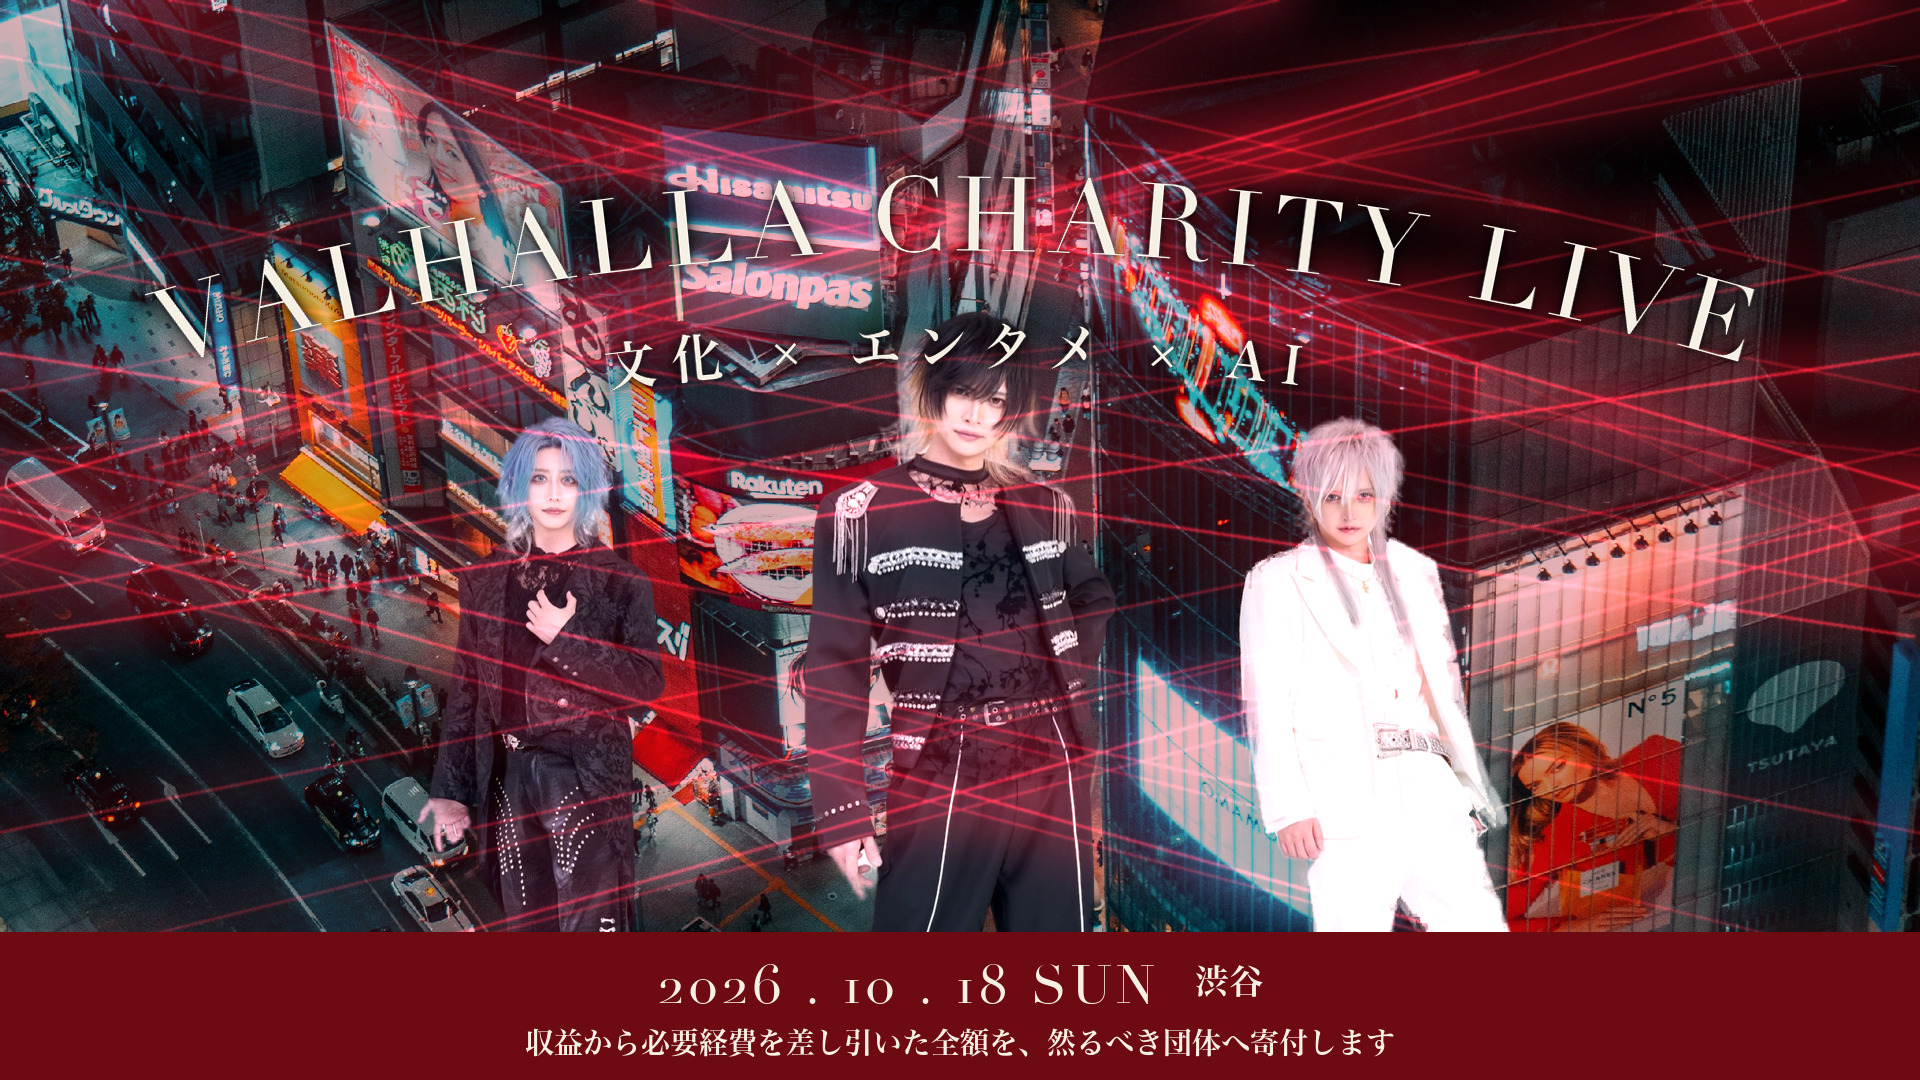
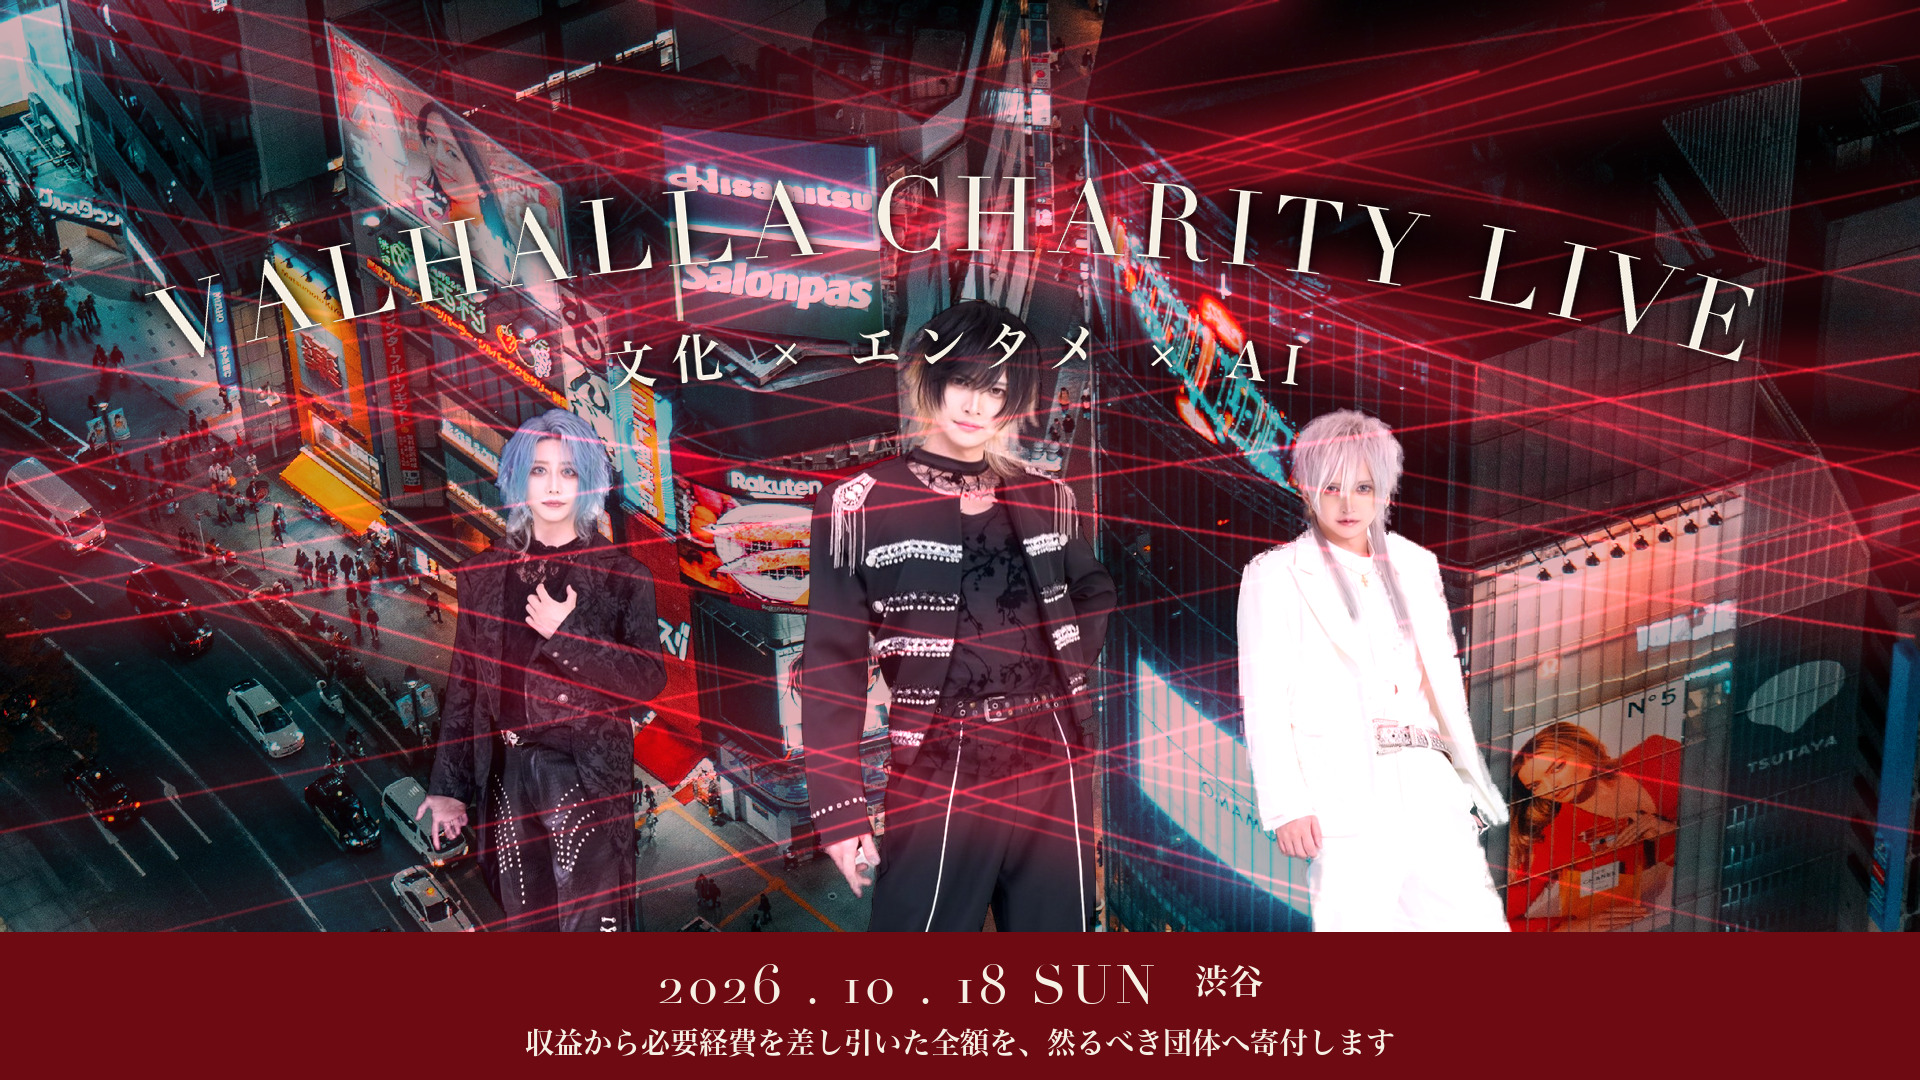
charity: segment each member separately for a sharper silhouette
U2Net resizes whatever it is given to 320x320 before deciding, so a
1600px group shot came back with a mask barely 320px wide -- which is
why the sleeves and hands melted into blobs. Each member is now located
first, then cut again from his own padded crop, tripling the effective
resolution per person.

The soft edges also carried the studio white with them; those pixels are
now unmixed against the measured backdrop colour and the faintest ones
dropped, so nothing glows white where it meets the city. White-suit
retention is up from 70% to 78%.

diff --git a/assets/charity/create_flyer_wide.py b/assets/charity/create_flyer_wide.py
@@ -97,62 +97,79 @@ def add_lasers(base: Image.Image) -> Image.Image:
 CUTOUT = HERE / "members_cutout.png"   # rembg で人物だけを抜いたもの
 
 
-def cutouts() -> list[Image.Image]:
-    """3人を1人ずつ、人物の形どおりに切り出して返す（左から順）。
+def refine_edges(rgba: Image.Image) -> Image.Image:
+    """縁に残る白ホリゾントの色を取り除き、輪郭を締める。
 
-    白ホリゾント撮影のため、明度や輪郭で抜こうとすると
-    白スーツ（明度251）が白背景（242）より明るく、必ず一緒に消える。
-    そこで rembg（U2Net）で意味的に人物を抜く。モデルは手元にあるので
-    オフラインで動く。結果は PNG に残して、次回からは読むだけにする。
+    半透明の縁は「人物の色」と「背景の白」が混ざった状態なので、
+    背景ぶんを引き算して人物本来の色に戻す。これをやらないと、
+    暗い渋谷の上に置いたとき縁が白く光って切り抜き感が出る。
     """
-    if not CUTOUT.exists():
-        from rembg import remove, new_session
-        # alpha matting を有効にすると、元画像の色を手がかりに境界を引き直す。
-        # これが無いとマスクが丸く鈍り、袖や手の形が潰れる。
-        remove(Image.open(MEMBERS).convert("RGB"),
-               session=new_session("u2net"),
-               alpha_matting=True,
-               alpha_matting_foreground_threshold=250,
-               alpha_matting_background_threshold=15,
-               alpha_matting_erode_size=12).save(CUTOUT)
+    arr = np.asarray(rgba).astype(np.float32)
+    a = arr[:, :, 3:4] / 255.0
+    bg = np.array([244.0, 244.0, 244.0], np.float32)   # 白ホリゾントの実測値
+    clean = np.clip((arr[:, :, :3] - (1 - a) * bg) / np.clip(a, 0.18, 1.0), 0, 255)
+    # ごく薄い縁は背景側とみなして落とす（輪郭の締め）
+    tight = np.clip((a - 0.14) / (1 - 0.14), 0, 1)
+    out = np.concatenate([clean, tight * 255], axis=2).astype(np.uint8)
+    return Image.fromarray(out).convert("RGBA")
 
-    rgba = Image.open(CUTOUT).convert("RGBA")
-    pixels = np.asarray(rgba)
-    alpha = pixels[:, :, 3]
-    # 連結成分で3人に分ける。16は人物の明度ではなく、rembg のアルファに
-    # 残る微小ノイズだけを外し、髪先などの半透明部分を成分へ含める値。
+
+def cutouts() -> list[Image.Image]:
+    """3人を1人ずつ、シルエットどおりに切り出して返す（左から順）。
+
+    白ホリゾント撮影のため、明度や輪郭で抜くと白スーツ（明度251）が
+    白背景（242）より明るく、必ず一緒に消える。そこで rembg（U2Net）で
+    意味的に抜く。モデルは手元にあるのでオフラインで動く。
+
+    ただし U2Net は入力を 320x320 に縮めて判定するので、幅1600の写真を
+    そのまま渡すとマスクが粗くなり、袖や手が塊に潰れる。
+    そこで **1人ずつ切り出してから個別にかける**。1人あたりの実効解像度が
+    3倍以上になり、輪郭がシルエットどおりに出る。
+    """
+    from rembg import remove, new_session
+    session = new_session("u2net")
+
+    def cut(img: Image.Image) -> Image.Image:
+        # alpha matting は元画像の色を手がかりに境界を引き直す処理。
+        # これが無いとマスクが丸く鈍る。
+        return remove(img, session=session, alpha_matting=True,
+                      alpha_matting_foreground_threshold=250,
+                      alpha_matting_background_threshold=15,
+                      alpha_matting_erode_size=12)
+
+    src = Image.open(MEMBERS).convert("RGB")
+
+    # 1回目：全体をざっくり抜いて、3人の位置を掴む
+    rough = np.asarray(cut(src))[:, :, 3]
     n, labels, stats, _ = cv2.connectedComponentsWithStats(
-        (alpha >= 16).astype(np.uint8), connectivity=8)
+        (rough >= 16).astype(np.uint8), connectivity=8)
     order = sorted(range(1, n), key=lambda i: -stats[i, cv2.CC_STAT_AREA])[:3]
     if len(order) != 3:
         raise RuntimeError(f"人物の連結成分が3個見つかりません: {len(order)}個")
     order.sort(key=lambda i: stats[i, cv2.CC_STAT_LEFT])
 
+    # 2回目：1人ずつ、余白をつけて切り出してから高解像度で抜き直す
     people = []
     for number, i in enumerate(order, start=1):
         x, y = stats[i, cv2.CC_STAT_LEFT], stats[i, cv2.CC_STAT_TOP]
         w, h = stats[i, cv2.CC_STAT_WIDTH], stats[i, cv2.CC_STAT_HEIGHT]
-        area = int(stats[i, cv2.CC_STAT_AREA])
-        # 連結成分の矩形に余白を足し、rembg の柔らかい元アルファをそのまま残す。
-        # 二値マスクへ差し替えないので、髪や衣装の縁がギザギザにならない。
-        pad = 12
+        pad = 40
         box = (max(0, x - pad), max(0, y - pad),
-               min(rgba.width, x + w + pad), min(rgba.height, y + h + pad))
-        people.append(rgba.crop(box))
-        print(f"人物{number}: alpha領域 {area:,}px | bbox=({x}, {y}, {w}, {h})")
+               min(src.width, x + w + pad), min(src.height, y + h + pad))
+        one = refine_edges(cut(src.crop(box)))
+        one = one.crop(one.getbbox())
+        people.append(one)
+        opaque = int((np.asarray(one)[:, :, 3] > 128).sum())
+        print(f"人物{number}: {one.size[0]}x{one.size[1]} / 不透明 {opaque:,}px")
 
-    # 右人物の領域に、高明度で十分不透明な画素が大量にあることを確認する。
-    # ここが減っていれば、白スーツまで背景として消した失敗と判断する。
-    right = order[2]
-    luminance = cv2.cvtColor(pixels[:, :, :3], cv2.COLOR_RGB2GRAY)
-    right_mask = (labels == right) & (alpha >= 128)
-    right_pixels = int(np.count_nonzero(right_mask))
-    white_suit_pixels = int(np.count_nonzero(right_mask & (luminance >= 245)))
-    white_ratio = white_suit_pixels / max(1, right_pixels)
-    print("右メンバー白スーツ検証: "
-          f"高明度かつ不透明 {white_suit_pixels:,}px / "
-          f"右人物 {right_pixels:,}px ({white_ratio:.1%})")
-    if white_suit_pixels < 50_000 or white_ratio < 0.30:
+    # 右の人物（白スーツ）が消えていないことを確認する。
+    right = np.asarray(people[2])
+    lum = cv2.cvtColor(right[:, :, :3], cv2.COLOR_RGB2GRAY)
+    solid = right[:, :, 3] > 128
+    white = int(np.count_nonzero(solid & (lum >= 235)))
+    ratio = white / max(1, int(solid.sum()))
+    print(f"右メンバー白スーツ検証: 高明度かつ不透明 {white:,}px ({ratio:.1%})")
+    if ratio < 0.30:
         raise RuntimeError("右メンバーの白スーツが十分に残っていません")
     return people
 
